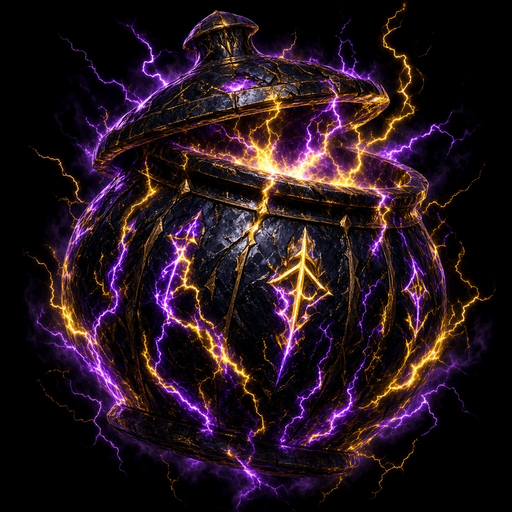
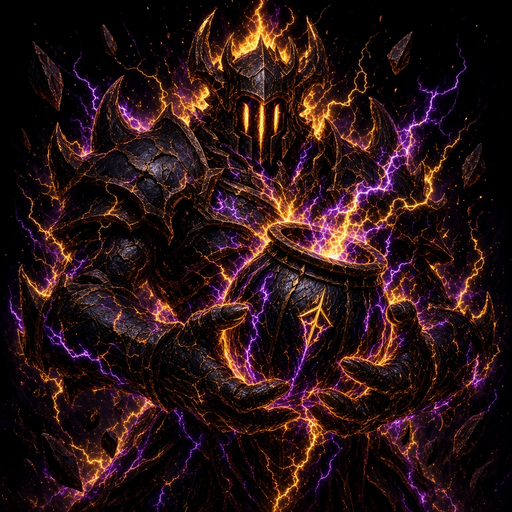
Replace Floor 40 Stormcaller Vessel jar art with a boss creature
The summon portrait was a lone lightning urn, which read as an item
rather than a boss. Swap in a storm-armored humanoid channeling the
vessel, and mark the boss kind as humanoid.

diff --git a/cogs/descent.py b/cogs/descent.py
@@ -149,7 +149,7 @@ BOSS_NAMES = {
     10: ("The Bloated Sovereign", "🍄", "blob"),
     20: ("Cinderlord Ashgrave", "🔥", "humanoid"),
     30: ("The Rime Empress", "❄", "humanoid"),
-    40: ("Stormcaller Vessel", "⚡", "orb"),
+    40: ("Stormcaller Vessel", "⚡", "humanoid"),
     50: ("The Hollow Saint", "✨", "humanoid"),
     # Lower Reach+ — unique bosses (not reskins of floors 10–50)
     60: ("Blightmother Veil", "☠", "humanoid"),
